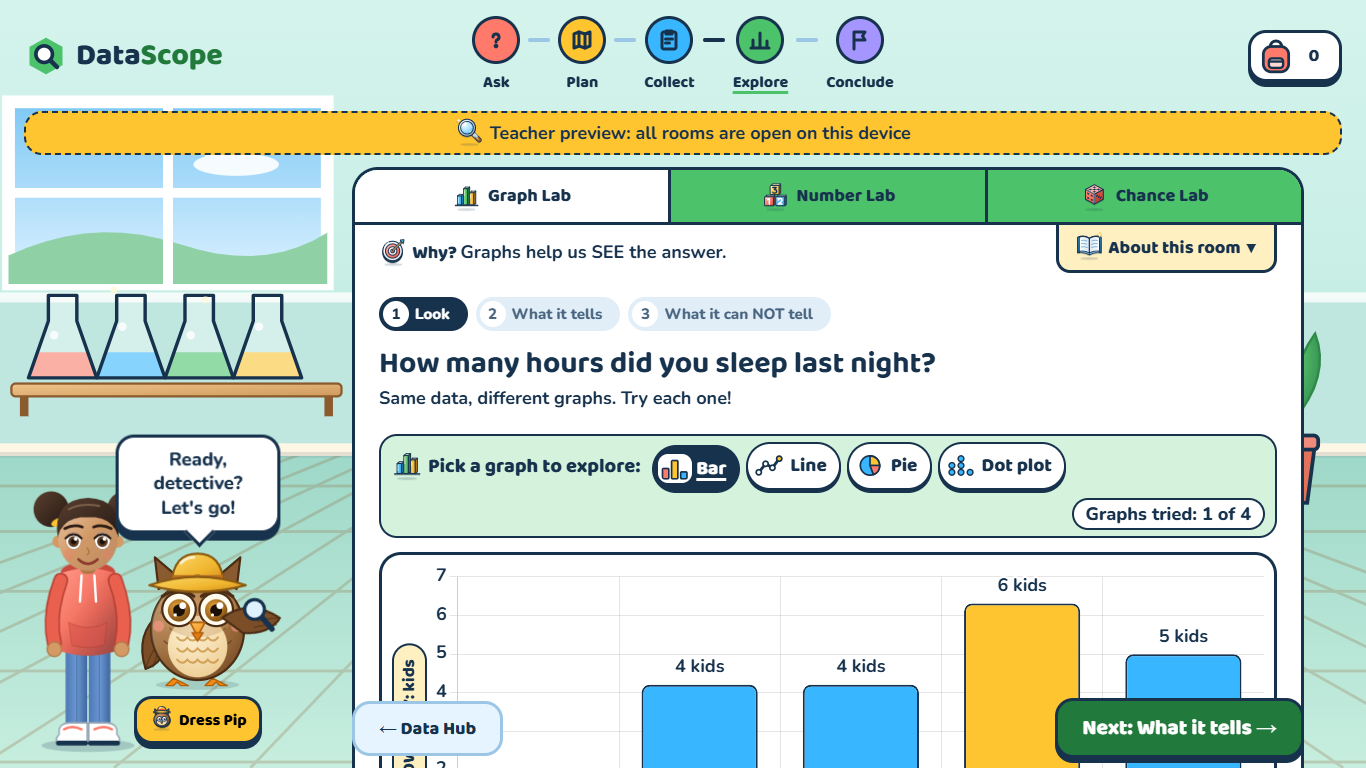
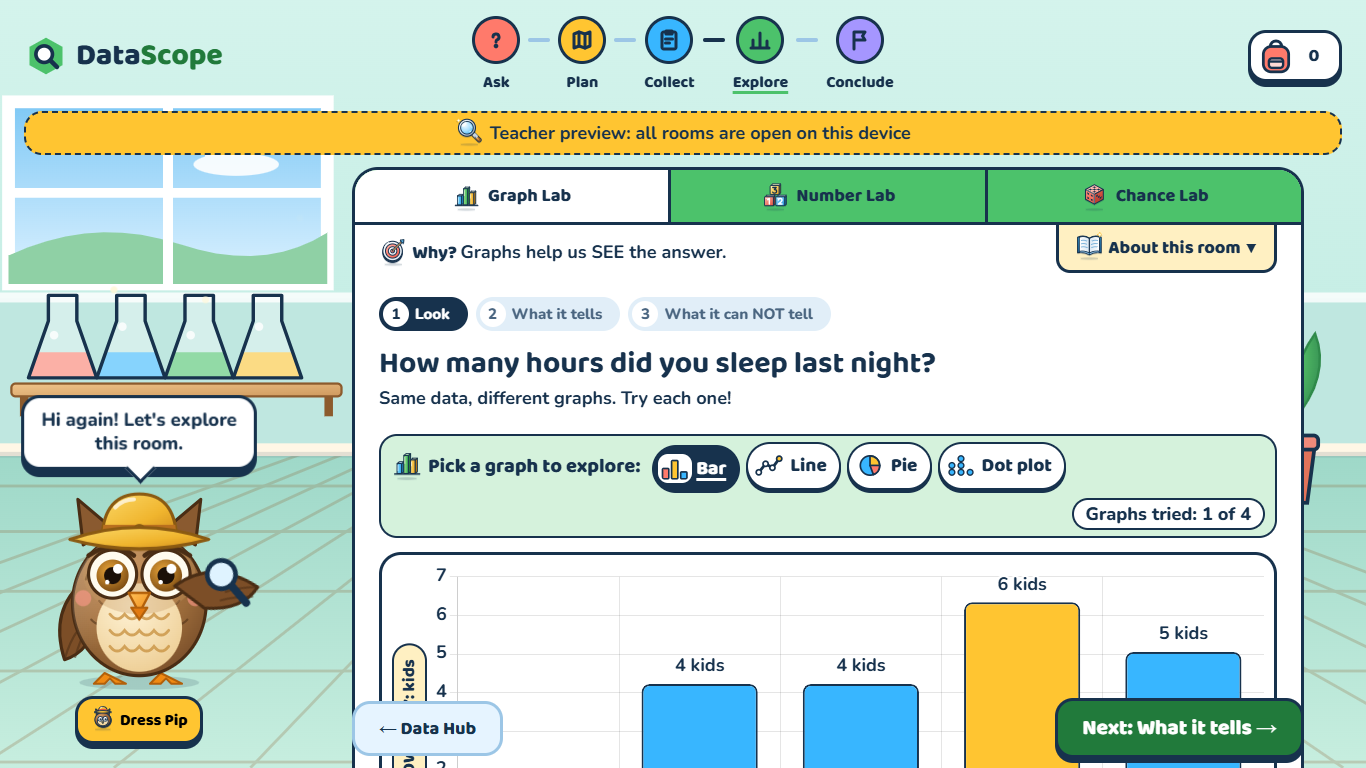
Part 59s+: Sara only in the story; Pip is the main character from the Mission scene on
- Mission scene: no Sara, Pip big in the middle.
- Rooms: no Sara in the left column; big Pip alone and bigger.
- Start page: Pip alone and bigger.
- Test: Sara never in the rooms, the start page or the Mission scene.

diff --git a/js/scenes/index.js b/js/scenes/index.js
@@ -1,6 +1,7 @@
 // Part 59 (scenes): each room is a PLACE. This file puts the room's scene
-// behind the task card, and Sara in the left column next to big Pip.
-// The plan (which scene, which pose, what moves) is plain data here, so it is
+// behind the task card. Big Pip stands in the left column (Habiba, 10 Nov
+// 2026: Pip is the main character in the rooms; Sara is only in the story).
+// The plan (which scene, what moves) is plain data here, so it is
 // tested (tests/scenes.test.js); mountScene() is the only part that needs a page.
 //
 // Rules (Part 59): the scene is a still picture; only a few small things move
@@ -16,16 +17,14 @@ import { lab } from './lab.js';
 import { funfair } from './funfair.js';
 import { office } from './office.js';
 import { schoolyard } from './schoolyard.js';
-import { saraSVG } from '../characters.js';
 
 // Room (phase id) -> its place. Rooms move to scenes one part at a time;
 // a room not listed here keeps the Round 4 sky (js/ambient.js).
-// `sara`: her pose in this room. `ambient`: what moves in the scene
+// `ambient`: what moves in the scene
 // (x, y in % of the 960 x 600 stage).
 export const ROOM_SCENES = {
   collect: {
     draw: classroom,
-    sara: 'clip',
     // Dust specks floating in the window's light.
     ambient: [
       { kind: 'dust', x: 22, y: 58, seconds: 9, delay: 0 },
@@ -38,7 +37,6 @@ export const ROOM_SCENES = {
   },
   ask: {
     draw: studio,
-    sara: 'think',
     // Dust floating over the bookshelves.
     ambient: [
       { kind: 'dust', x: 10, y: 48, seconds: 10, delay: 0 },
@@ -49,7 +47,6 @@ export const ROOM_SCENES = {
   graph: {
     draw: lab,
     // Not 'point' (the mockup): big Pip stands in front of her and hid the stick.
-    sara: 'idle',
     // Dust in the light from the window.
     ambient: [
       { kind: 'dust', x: 8, y: 44, seconds: 10, delay: 0 },
@@ -59,7 +56,6 @@ export const ROOM_SCENES = {
   },
   chance: {
     draw: funfair,
-    sara: 'cheer',
     // The one thing that moves: a small flag waving on top of the striped pole.
     ambient: [
       { kind: 'flag', x: 2.3, y: 36.4, seconds: 2.4, delay: 0 },
@@ -67,7 +63,6 @@ export const ROOM_SCENES = {
   },
   conclude: {
     draw: office,
-    sara: 'write',
     // Dust over the desk.
     ambient: [
       { kind: 'dust', x: 8, y: 46, seconds: 10, delay: 0 },
@@ -77,7 +72,6 @@ export const ROOM_SCENES = {
   },
   number: {
     draw: workshop,
-    sara: 'think',
     // A little chalk dust drifting up from the chalkboard's tray.
     ambient: [
       { kind: 'dust', x: 18, y: 46, seconds: 10, delay: 0 },
@@ -85,12 +79,11 @@ export const ROOM_SCENES = {
       { kind: 'dust', x: 24, y: 47, seconds: 11, delay: -8 },
     ],
   },
-  // The start page (Part 59g): Sara and Pip stand in the page itself
-  // (js/welcome.js), so no `sara` here. Clouds drift (w = width in % of the
-  // stage); the school flag waves.
+  // The start page (Part 59g): big Pip stands in the page itself (js/welcome.js).
+  // Clouds drift (w = width in % of the stage); the school flag waves.
   welcome: {
     draw: schoolyard,
-    sara: null,
+    cast: false,
     ambient: [
       { kind: 'cloud', x: 8, y: 8, w: 18, seconds: 150, delay: -40 },
       { kind: 'cloud', x: 46, y: 20, w: 12, seconds: 210, delay: -130 },
@@ -119,9 +112,6 @@ export function ambientStyle(a) {
   return style;
 }
 
-// Sara cheers when the room is finished, then goes back to her room pose.
-const CHEER_MS = 4000;
-
 export function hasScene(room) {
   return FEATURES.richScenes && Boolean(ROOM_SCENES[room]);
 }
@@ -148,21 +138,7 @@ export function mountScene(room) {
   document.body.prepend(scene);
   html.classList.add('has-scene');
 
-  if (!plan.sara) return true;
-
-  // Sara stands in the left column beside big Pip (wide screens only, css/scenes.css).
-  const cast = document.createElement('div');
-  cast.className = 'scene-cast';
-  cast.setAttribute('aria-hidden', 'true');
-  cast.innerHTML = saraSVG(plan.sara);
-  document.body.append(cast);
-  html.classList.add('has-cast');
-
-  // A finished room: Sara cheers with Pip for a moment.
-  window.addEventListener('datascope:logged', (e) => {
-    if (e.detail.type !== 'phase-complete') return;
-    cast.innerHTML = saraSVG('cheer');
-    setTimeout(() => { cast.innerHTML = saraSVG(plan.sara); }, CHEER_MS);
-  });
+  // Big Pip gets the left column beside the card (wide screens, css/scenes.css).
+  if (plan.cast !== false) html.classList.add('has-cast');
   return true;
 }

diff --git a/css/scenes.css b/css/scenes.css
@@ -111,8 +111,7 @@
   height: auto;
 }
 
-.tab-hidden .scene *,
-.tab-hidden .scene-cast {
+.tab-hidden .scene * {
   animation-play-state: paused;
 }
 
@@ -125,39 +124,17 @@
   padding: var(--space-1) var(--space-3);
 }
 
-/* ---------- the left column: Sara, with big Pip in front of her ---------- */
-/* Only on laptop screens (1240px and wider), like big Pip (Part 43c).
+/* ---------- the left column: big Pip, the main character (Habiba, 10 Nov 2026) ----------
+   Only on laptop screens (1240px and wider), like big Pip (Part 43c).
    Narrower: no column; the small Pip in the card talks instead. */
-.scene-cast {
-  display: none;
-}
-
 @media (min-width: 1240px) {
-  .has-cast .scene-cast {
-    display: block;
-    position: fixed;
-    left: 8px;
-    bottom: 16px;
-    z-index: 4; /* big Pip (z-index 5) stands in front of her */
-    width: 160px;
-    pointer-events: none;
-    transform-origin: 50% 100%;
-    animation: cast-breathe 4s ease-in-out infinite;
-  }
-
-  .scene-cast svg {
-    display: block;
-    width: 100%;
-    height: auto;
-  }
-
   .has-cast .pip-stand {
-    left: 118px;
-    width: 160px;
+    left: 24px;
+    width: 230px;
   }
 
   /* The card, its button bar and the status line move right, centred in the
-     space beside the column (328px from the left at 1366). */
+     space beside Pip (328px from the left at 1366). */
   .has-cast .room-content.card-layout,
   .has-cast .action-bar,
   .has-cast .status-line {
@@ -166,7 +143,3 @@
   }
 }
 
-@keyframes cast-breathe {
-  0%, 100% { transform: scaleY(1); }
-  50% { transform: scaleY(1.012); }
-}

diff --git a/tests/scenes.test.js b/tests/scenes.test.js
@@ -52,10 +52,8 @@ test('the scenes have no sun and no ticking clock (Round 4 rule; no timers)', ()
   }
 });
 
-test('each room scene: a known Sara pose, and only a few slow things moving inside the stage', () => {
+test('each room scene: only a few slow things moving inside the stage', () => {
   for (const [room, plan] of Object.entries(ROOM_SCENES)) {
-    // The start page has no `sara`: she stands in the page itself (js/welcome.js).
-    assert.ok(room === 'welcome' ? plan.sara === null : SARA_MOODS.includes(plan.sara), room);
     assert.ok(plan.ambient.length <= 8, `${room}: ${plan.ambient.length} movers`);
     for (const a of plan.ambient) {
       assert.ok(a.x >= 0 && a.x <= 100 && a.y >= 0 && a.y <= 100, `${room}: inside the stage`);
@@ -100,4 +98,13 @@ test("the story's graph agrees with Sara's words: the centre number is 9", async
   const hours = [...sceneHTML('graph').matchAll(/(\d+) hours</g)].map((m) => Number(m[1]));
   const values = hours.flatMap((h, i) => Array(counts[i]).fill(h));
   assert.equal(values[Math.floor(values.length / 2)], 9);
+});
+
+test('Sara is only in the story: never in a room scene or on the start page (Habiba, 10 Nov 2026)', async () => {
+  const fs = await import('node:fs');
+  for (const file of ['js/scenes/index.js', 'js/welcome.js', 'index.html']) {
+    assert.doesNotMatch(fs.readFileSync(file, 'utf8'), /saraSVG|id="sara"/, file);
+  }
+  const { sceneHTML } = await import('../js/story-scenes.js');
+  assert.doesNotMatch(sceneHTML('mission'), /st-sara/, 'the Mission scene: Pip only');
 });

diff --git a/js/story-scenes.js b/js/story-scenes.js
@@ -171,12 +171,12 @@ const SCENES = {
     ${part('data-line="1"', svg(`<g transform="translate(804 174)"><g class="st-stamp-in"><rect x="-62" y="-20" width="124" height="40" rx="9" fill="#fff" fill-opacity=".92" stroke="#217A3B" stroke-width="4"/>${T(0, 9, 28, '#217A3B', 'LIKELY!')}</g></g>`))}
     ${part('data-line="2"', svg(`<g>${Array.from({ length: 24 }, (_, i) => `<rect class="st-confetti" x="${(i * 41 + 17) % 940}" y="-30" width="${8 + (i % 3) * 3}" height="${12 + (i % 4) * 2}" rx="2" fill="${KIDS[i % 4].shirt}" style="animation-delay: -${(i * 0.37) % 3.6}s; animation-duration: ${3 + (i % 5) * 0.4}s"/>`).join('')}</g>`))}`,
 
-  // Pip, big, and Sara: the pretend class (no number); then "Your mission!".
+  // From here on the child is the investigator, so Sara is gone and Pip is the
+  // main character, big (Habiba, 10 Nov 2026). The pretend class (no number);
+  // then "Your mission!" and Pip cheers.
   mission: () => `
-    ${part('data-before="2"', sara('idle', 20, 0.85))}
-    ${part('data-line="2"', sara('cheer', 20, 0.85))}
-    ${part('data-before="2"', pip(250, 190))}
-    ${part('data-line="2"', pip(250, 190, true))}
+    ${part('data-before="2"', pip(170, 260))}
+    ${part('data-line="2"', pip(170, 260, true))}
     ${part('data-line="1"', svg(pop(`<g transform="translate(590 76)">
       <rect x="5" y="8" width="270" height="214" rx="18" fill="${NAVY}" opacity=".2"/>
       <rect width="270" height="214" rx="18" fill="#fff" fill-opacity=".95" stroke="${NAVY}" stroke-width="3.6"/>

diff --git a/css/welcome.css b/css/welcome.css
@@ -36,7 +36,7 @@
   gap: clamp(12px, 4vw, 64px);
 }
 
-/* ---------- left: Sara and Pip standing together, "Dress Pip" under them ---------- */
+/* ---------- left: big Pip, the main character, "Dress Pip" under him ---------- */
 .mascot-col {
   display: flex;
   flex-direction: column;
@@ -44,27 +44,8 @@
   gap: var(--space-2);
 }
 
-.welcome-stage {
-  display: flex;
-  align-items: flex-end;
-  justify-content: center;
-}
-
-.welcome-sara {
-  width: clamp(110px, 13vw, 190px);
-  margin-right: -14px; /* Pip stands a little in front of her */
-}
-
-.welcome-sara svg {
-  display: block;
-  width: 100%;
-  height: auto;
-}
-
 .mascot {
-  position: relative;
-  z-index: 1;
-  width: clamp(180px, 22vw, 320px);
+  width: clamp(200px, 26vw, 380px);
 }
 
 /* ---------- right: the words and the code card ---------- */
@@ -252,11 +233,7 @@
     display: none;
   }
 
-  .welcome-sara {
-    width: 24vw;
-  }
-
   .mascot {
-    width: 40vw;
+    width: 44vw;
   }
 }

diff --git a/js/welcome.js b/js/welcome.js
@@ -9,7 +9,6 @@ import { LOGO_SVG } from './icons.js';
 import { openStory } from './story.js';
 import { mountSky } from './ambient.js';
 import { mountScene } from './scenes/index.js';
-import { saraSVG } from './characters.js';
 import { fillIcons, setIconText, iconHTML } from './icon-text.js';
 import { openModal } from './modal.js';
 import { openWardrobe } from './wardrobe.js';
@@ -22,7 +21,6 @@ fillIcons(); // Part 54b: our icons instead of emoji
 // Pip greets the child on the start page (cheering, wings up).
 document.getElementById('mascot').innerHTML = pipSVG('Pip the owl explorer');
 document.querySelector('#mascot .pip').classList.replace('pip--happy', 'pip--cheer');
-document.getElementById('sara').innerHTML = saraSVG('cheer'); // Part 59g: Sara cheers beside Pip
 document.getElementById('logo').innerHTML = `${LOGO_SVG}<span>Data<span class="logo-accent">Scope</span></span>`;
 
 const form = document.getElementById('code-form');

diff --git a/index.html b/index.html
@@ -19,14 +19,11 @@
   <header class="welcome-top">
     <span class="logo" id="logo"></span>
   </header>
-  <!-- Part 59g: the look of docs/design/datascope-welcome-ui.html. Sara and Pip
-       stand on the left (js/welcome.js draws them), the words and the code on the right. -->
+  <!-- Part 59g: the look of docs/design/datascope-welcome-ui.html. Big Pip stands on
+       the left (Sara is only in the story), the words and the code on the right. -->
   <main class="welcome">
     <div class="mascot-col">
-      <div class="welcome-stage">
-        <div class="welcome-sara" id="sara" aria-hidden="true"></div>
-        <div class="mascot" id="mascot"></div>
-      </div>
+      <div class="mascot" id="mascot"></div>
       <div id="dress-slot"></div>
     </div>
     <section class="welcome-panel m-rise">

diff --git a/docs/project-notes.md b/docs/project-notes.md
@@ -276,7 +276,10 @@ Parts 42 to 51. Claude commits each part; nothing is pushed until Habiba says "p
 | 59e | 10 Nov | `615136d` | **Chance Lab = a funfair tent:** coral and cream canvas stripes, a scalloped yellow edge, bunting, a prize shelf (5 balls, 4 dice) and a striped pole. The only movement: a small green flag waving on the pole (skew + scale, 2.4 s; hangs still with reduced motion). Sara cheers. The pole moved from behind the card (mockup) to the far left, so the flag can be seen. The mockup's spinner details (an unfair colour, dashed "should" next to solid "did" bars) were already in Chance Lab: no change. Speed (CPU 4x slower): 55 to 58 fps with the scene, 46 to 53 without (Chance Lab's own 3D devices are the heavy part). No logic, log or content change. |
 | 59f | 10 Nov | `5bb059b` `1b2a7ba` | **Evidence Board = a detective office:** purple walls, a corkboard with three notes (Claim, Proof, Sure?) joined by red string, a desk with a paper and a magnifier, a plant; 3 dust specks. Sara writes. Left out: the hanging purple lamp (top bar, as in 59c). **Evidence Board unchanged:** no clue tray, and the stamp still says "Checked!" (the mockup's "Ready to share!" would be a content change; scene only, as agreed). Speed (CPU 4x slower): 37 to 46 fps with the scene, 39 to 52 without; the main thread is 71 to 96% busy either way, so the room itself is heavy (open item, section 7). No logic, log or content change. |
 | 59g | 10 Nov | `9b26902` | **Start page in the look of `docs/design/datascope-welcome-ui.html`** (Habiba asked for this design instead of the 6 doors, so there are no doors). The school yard behind the page (`js/scenes/schoolyard.js`: sky, hills with trees, the school, a fence, grass with a path, a big tree); only 3 clouds drift and the school flag waves. Left out (Round 4 and Part 59 rule): the sun, birds, butterfly, flowers, swaying grass and tree, the clock on the school; and the panel's background blur (slow). Sara cheers beside big Pip (his outfit, cheering), "Dress Pip" under them; on the right a light panel: Pip's hello with a tail, the title, and the code card. **Code box (content change):** empty: "Type your code first. It is on the card from your teacher."; wrong: "Hmm, that code does not look right. Check each letter and number, then try again." (was "Codes look like OWL-07 ..."); right: a green tick and "Welcome, explorer CODE! Pip is so happy to see you." Code rules, saving, the story and the Wardrobe intro unchanged. Fits 1366x768 without scrolling; stacks below 900 px. Not logged. |
-| 59s | 10 Nov | (this commit) | **The story in the look of `docs/design/datascope-story-ui-v2.html`** (same 7 scenes, words, sounds, voice and buttons). Each scene has a place drawn on the stage (school yard: Ask, Plan, Mission; classroom: Collect to Conclude), drawn wider and taller than the stage (`PLACE_AREA`) so it reaches the edges of any window; `classroom(area)`, `schoolyard(area)` and `floor(...area)` can draw wider (the rooms are unchanged). The new Sara (`saraSVG(mood, { story: true })`: bobs, blinks, talks, points) and four new classmates (`kidSVG()`: one in a headscarf, one with glasses; talk, yawn, clap), the new Pip. Props after v2: a thought bubble, the sticky guess note and a tick, desks with speech bubbles then four DATA cards, the graph on the whiteboard (Most kids! / Only 1!, WHAT / HOW MANY pills, word labels), the number cards, a how-sure bar and a rolling 3D die, the Evidence Card with a LIKELY! stamp and confetti, a pretend class and "Your mission!". The trail sits on a white pill. **Not from v2:** sun, birds, flowers, butterfly (Round 4); the camera push-in and film grain (motion and speed rules); "a pretend class of 25" (no class size, 6 Nov); v2's 25-kid graph (its centre number is 8, not 9): the story keeps its own numbers (tested). Speed (CPU 4x slower): 60 fps in the busiest scenes. |
+| 59s | 10 Nov | `a1f9b13` | **The story in the look of `docs/design/datascope-story-ui-v2.html`** (same 7 scenes, words, sounds, voice and buttons). Each scene has a place drawn on the stage (school yard: Ask, Plan, Mission; classroom: Collect to Conclude), drawn wider and taller than the stage (`PLACE_AREA`) so it reaches the edges of any window; `classroom(area)`, `schoolyard(area)` and `floor(...area)` can draw wider (the rooms are unchanged). The new Sara (`saraSVG(mood, { story: true })`: bobs, blinks, talks, points) and four new classmates (`kidSVG()`: one in a headscarf, one with glasses; talk, yawn, clap), the new Pip. Props after v2: a thought bubble, the sticky guess note and a tick, desks with speech bubbles then four DATA cards, the graph on the whiteboard (Most kids! / Only 1!, WHAT / HOW MANY pills, word labels), the number cards, a how-sure bar and a rolling 3D die, the Evidence Card with a LIKELY! stamp and confetti, a pretend class and "Your mission!". The trail sits on a white pill. **Not from v2:** sun, birds, flowers, butterfly (Round 4); the camera push-in and film grain (motion and speed rules); "a pretend class of 25" (no class size, 6 Nov); v2's 25-kid graph (its centre number is 8, not 9): the story keeps its own numbers (tested). Speed (CPU 4x slower): 60 fps in the busiest scenes. |
+| 59s+ | 10 Nov | (this commit) | **Sara only in the story (Habiba):** from the Mission scene on, Pip is the main character. Mission scene: no Sara, Pip big in the middle (cheers on the last line). Rooms: no Sara in the left column; big Pip stands there alone and bigger (230 px at 1366), the card stays on the right. Start page: Pip alone and bigger. Tested: no `saraSVG` in the rooms, the start page or the Mission scene. |
+
+**Decision (Habiba, 10 Nov 2026):** Sara appears only in the story (scenes 1 to 6). Pip is the main character from the Mission scene on, on the start page and in every room.
 
 **Decisions (Habiba, 10 Nov 2026, Part 59):** the mockups `docs/design/datascope-rooms-ui.html` and `datascope-story-ui-v2.html` are the reference. **Pip gets the mockup's artwork** (step 59p, right after 59a: all 16 Wardrobe items must be moved onto him). The start page keeps "Start exploring" as the main button (the story stays secondary); 6 doors, locked ones greyed. Speed is checked with Chrome's CPU slowed 4x until a Chromebook is available. Scenes have **no sun, birds, flowers or swaying grass**; only clouds, dust and the funfair flag move; the scenes replace the floating room shapes (Part 43a) room by room. Order: 59a Data Hub, 59p Pip, 59b Number Lab, 59c Question Studio, 59d Graph Lab, 59e Chance Lab, 59f Evidence Board, 59g Start page; ask Habiba before each room (also before changing a room's logic or words, e.g. Graph Lab's "NOT tell" after 2 graphs, Evidence Board's "Ready to share!").
 
